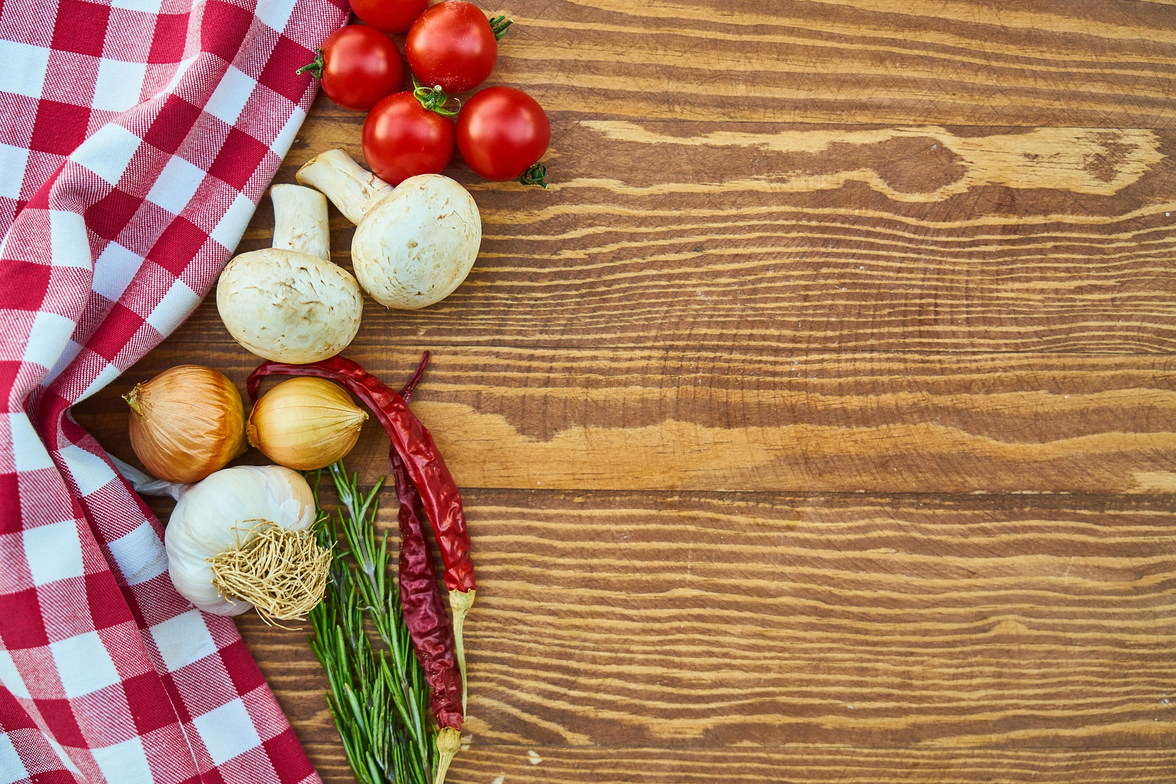
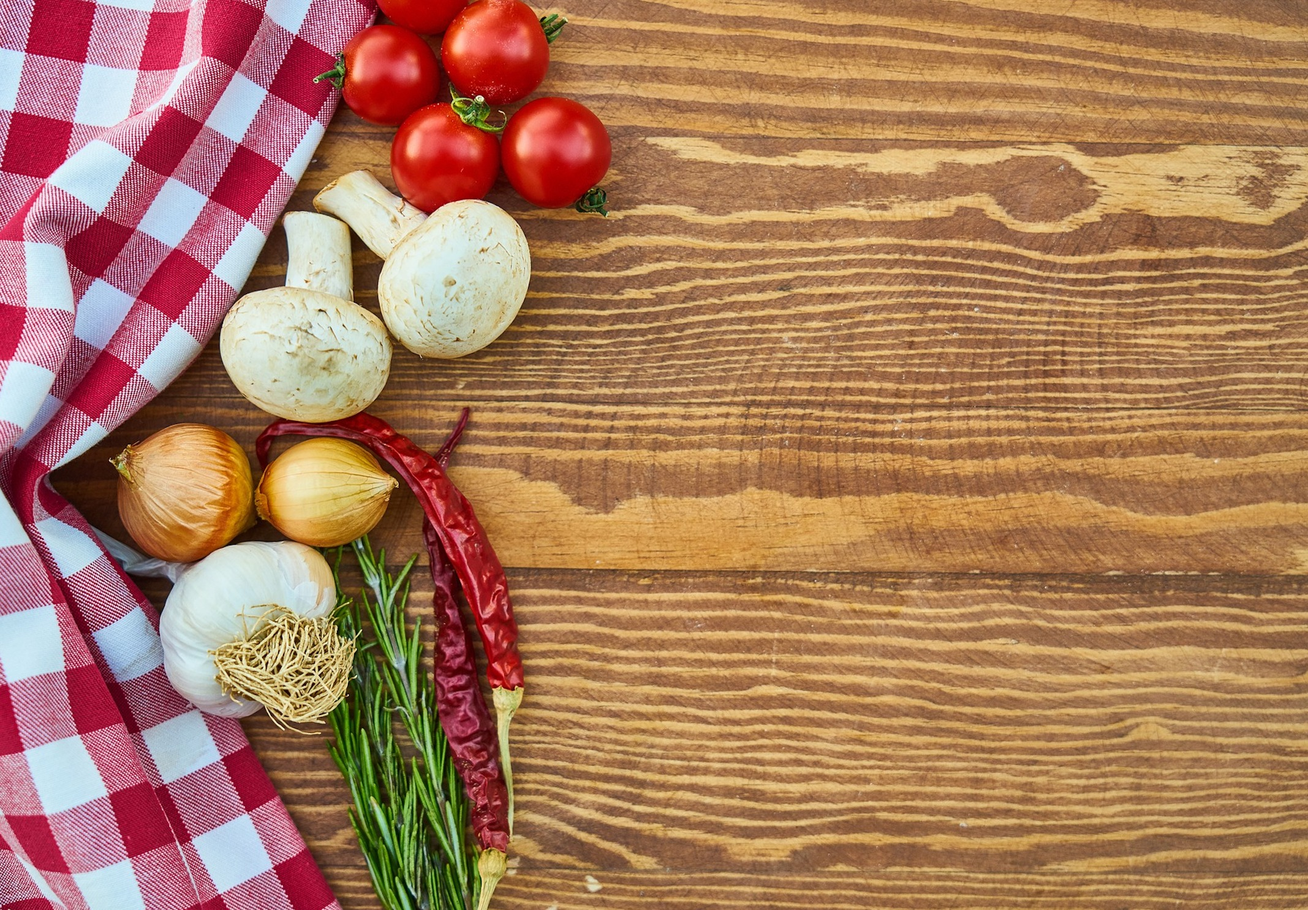
Fixing faulty mobile background image

diff --git a/public/assets/css/style.css b/public/assets/css/style.css
@@ -1,81 +1,91 @@
-body {  background-image: url("picnic.jpg");
-        text-align: center;
-        font-family: 'Gotu', sans-serif;
+body {
+  background-image: url("picnic.jpg");
+  text-align: center;
+  font-family: "Gotu", sans-serif;
+  background-size: cover;
 }
 
-li {  padding: 5px;
-      margin: 5px;
-      border-radius: 30px;
-      list-style-type: none;
-  }
-  
-h1 {  background-color: rgba(110, 21, 21, 0.973);
-      opacity: 80%;
-      color: white;
-      padding: 10px;
-      text-shadow: 3px 4px black;
-      font-size: 38pt;
-}
-h2 {   text-decoration: underline;
+li {
+  padding: 5px;
+  margin: 5px;
+  border-radius: 30px;
+  list-style-type: none;
 }
 
-.burgerDiv-1 {  margin-top: 10px;
-                background-image: url("one.png");
-                padding: 20px;
-                border-radius: 30px;
-                color: white;
+h1 {
+  background-color: rgba(110, 21, 21, 0.973);
+  opacity: 80%;
+  color: white;
+  padding: 10px;
+  text-shadow: 3px 4px black;
+  font-size: 38pt;
+}
+h2 {
+  text-decoration: underline;
 }
 
-.burgerDiv-2 {  margin-top: 50px;
-                background-image: url("one.png");
-                padding: 20px;
-                border-radius: 30px;
-                color: white;
+.burgerDiv-1 {
+  margin-top: 10px;
+  background-image: url("one.png");
+  padding-top: 20px;
+  border-radius: 30px;
+  color: white;
+}
+
+.burgerDiv-2 {
+  margin-top: 50px;
+  background-image: url("one.png");
+  padding-top: 20px;
+  border-radius: 30px;
+  color: white;
 }
 
 /*====*/
 
 .rotate_right {
-  float: right;
   -ms-transform: rotate(7deg); /* IE 9 */
   -webkit-transform: rotate(7deg); /* Safari */
   transform: rotate(7deg);
 }
 
 .rotate_left {
-  float: right;
   -ms-transform: rotate(-15deg); /* IE 9 */
   -webkit-transform: rotate(-15deg); /* Safari */
   transform: rotate(-15deg);
 }
 /*====*/
 
-.label {  font-weight: bold;
+.label {
+  font-weight: bold;
 }
 
-.formDiv  { background-color: transparent;
-            color: white;
-            padding: 20px;
-            margin-top: 20px;
+.formDiv {
+  background-color: transparent;
+  color: white;
+  padding: 20px;
+  margin-top: 20px;
 }
 
-
-img { height: 150px;
-      padding: 10px;
+img {
+  height: 150px;
+  padding: 10px;
 }
 
-.container {  background-color: transparent;          
+.container {
+  background-color: transparent;
 }
 
+.change-devoured {
+  border-radius: 20px;
+  background-color: greenyellow;
+  border: 3px outset greenyellow;
+}
 
-.change-devoured {  border-radius: 20px;
-                    background-color:greenyellow;
-                    border: 3px outset greenyellow;
-                  }
+button {
+  border-radius: 20px;
+}
 
-button {  border-radius: 20px;
-          border: 3px outset;
- }
-
- .delete-burger { background-color:red;
+.delete-burger {
+  background-color: red;
+  border: 3px outset red;
 }
